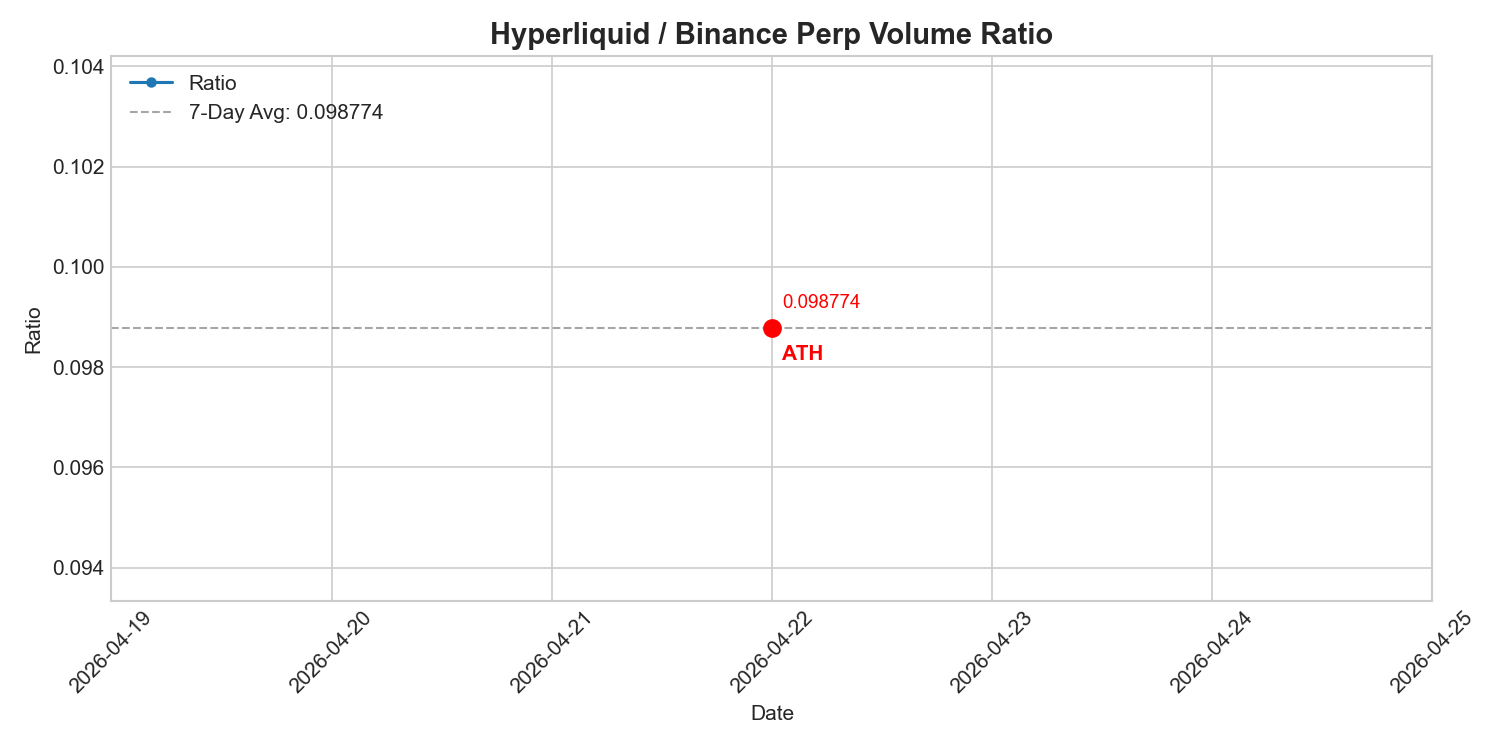
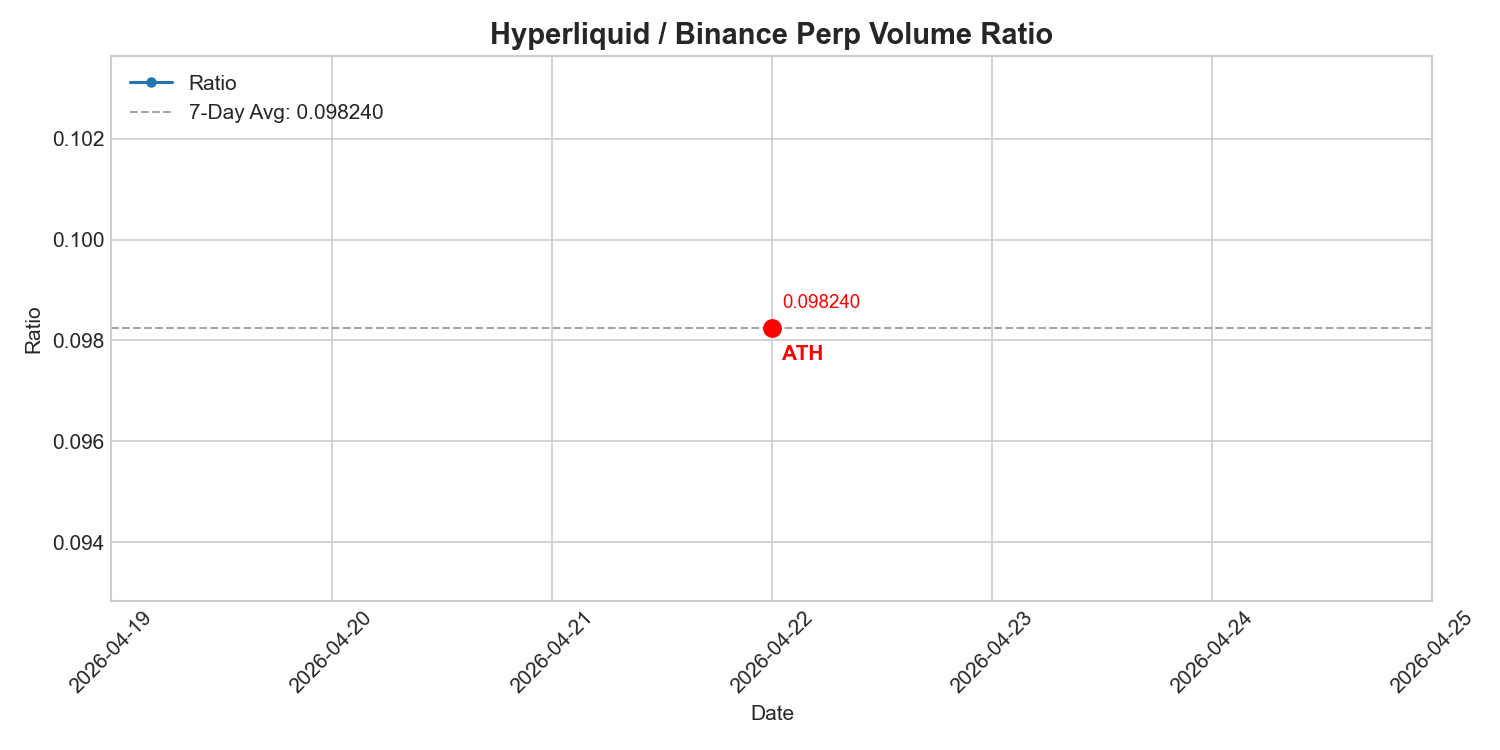
fix: add User-Agent and fallback URLs for Binance API
- Add browser-like User-Agent header to bypass 451 restrictions
- Add 4 Binance API domain fallbacks (fapi, fapi1-3)
- Support HTTP_PROXY/HTTPS_PROXY env vars for local testing

diff --git a/src/collector.py b/src/collector.py
@@ -1,6 +1,7 @@
 """API collectors for Hyperliquid and Binance perpetual volume data."""
 
 import logging
+import os
 import time
 from typing import Optional
 
@@ -9,14 +10,45 @@ import requests
 logger = logging.getLogger(__name__)
 
 HYPERLIQUID_URL = "https://api.hyperliquid.xyz/info"
-BINANCE_URL = "https://fapi.binance.com/fapi/v1/ticker/24hr"
+BINANCE_URLS = [
+    "https://fapi.binance.com/fapi/v1/ticker/24hr",
+    "https://fapi1.binance.com/fapi/v1/ticker/24hr",
+    "https://fapi2.binance.com/fapi/v1/ticker/24hr",
+    "https://fapi3.binance.com/fapi/v1/ticker/24hr",
+]
 TIMEOUT = 30
 MAX_RETRIES = 3
 BACKOFF_DELAYS = [1, 2, 4]
 
+DEFAULT_HEADERS = {
+    "User-Agent": (
+        "Mozilla/5.0 (Windows NT 10.0; Win64; x64) "
+        "AppleWebKit/537.36 (KHTML, like Gecko) "
+        "Chrome/120.0.0.0 Safari/537.36"
+    ),
+    "Accept": "application/json",
+}
+
+
+def _get_proxies() -> Optional[dict]:
+    """Read HTTP_PROXY / HTTPS_PROXY from environment."""
+    proxies = {}
+    http_proxy = os.environ.get("HTTP_PROXY") or os.environ.get("http_proxy")
+    https_proxy = os.environ.get("HTTPS_PROXY") or os.environ.get("https_proxy")
+    if http_proxy:
+        proxies["http"] = http_proxy
+    if https_proxy:
+        proxies["https"] = https_proxy
+    return proxies if proxies else None
+
 
 def _request_with_retry(method: str, url: str, **kwargs) -> requests.Response:
     """Make an HTTP request with exponential backoff retries."""
+    proxies = _get_proxies()
+    if proxies:
+        kwargs.setdefault("proxies", proxies)
+    kwargs.setdefault("headers", DEFAULT_HEADERS)
+
     last_exception: Optional[Exception] = None
     for attempt, delay in enumerate(BACKOFF_DELAYS):
         try:
@@ -25,7 +57,10 @@ def _request_with_retry(method: str, url: str, **kwargs) -> requests.Response:
             return response
         except Exception as exc:
             last_exception = exc
-            logger.warning("Request to %s failed (attempt %d/%d): %s", url, attempt + 1, MAX_RETRIES, exc)
+            logger.warning(
+                "Request to %s failed (attempt %d/%d): %s",
+                url, attempt + 1, MAX_RETRIES, exc,
+            )
             if attempt < len(BACKOFF_DELAYS) - 1:
                 time.sleep(delay)
     raise last_exception  # type: ignore[misc]
@@ -34,7 +69,9 @@ def _request_with_retry(method: str, url: str, **kwargs) -> requests.Response:
 def fetch_hyperliquid_volume() -> Optional[float]:
     """Fetch total 24h notional volume from Hyperliquid."""
     try:
-        resp = _request_with_retry("POST", HYPERLIQUID_URL, json={"type": "metaAndAssetCtxs"})
+        resp = _request_with_retry(
+            "POST", HYPERLIQUID_URL, json={"type": "metaAndAssetCtxs"}
+        )
         data = resp.json()
         # Response format: [meta, [assetCtxs, ...]]
         if not isinstance(data, list) or len(data) < 2:
@@ -51,19 +88,30 @@ def fetch_hyperliquid_volume() -> Optional[float]:
         return None
 
 
-def fetch_binance_volume() -> Optional[float]:
-    """Fetch total 24h quote volume from Binance futures."""
+def _fetch_binance_from_url(url: str) -> Optional[float]:
+    """Try to fetch Binance volume from a single URL."""
     try:
-        resp = _request_with_retry("GET", BINANCE_URL)
+        resp = _request_with_retry("GET", url)
         tickers = resp.json()
         if not isinstance(tickers, list):
-            logger.error("Unexpected Binance response structure")
+            logger.error("Unexpected Binance response structure from %s", url)
             return None
         total = 0.0
         for ticker in tickers:
             if isinstance(ticker, dict):
                 total += float(ticker.get("quoteVolume", 0) or 0)
         return round(total, 2)
-    except Exception as exc:
-        logger.error("Failed to fetch Binance volume: %s", exc)
+    except Exception:
         return None
+
+
+def fetch_binance_volume() -> Optional[float]:
+    """Fetch total 24h quote volume from Binance futures with fallback URLs."""
+    for url in BINANCE_URLS:
+        result = _fetch_binance_from_url(url)
+        if result is not None:
+            logger.info("Binance data fetched successfully from %s", url)
+            return result
+        logger.warning("Binance URL %s failed, trying next fallback...", url)
+    logger.error("All Binance URLs failed")
+    return None